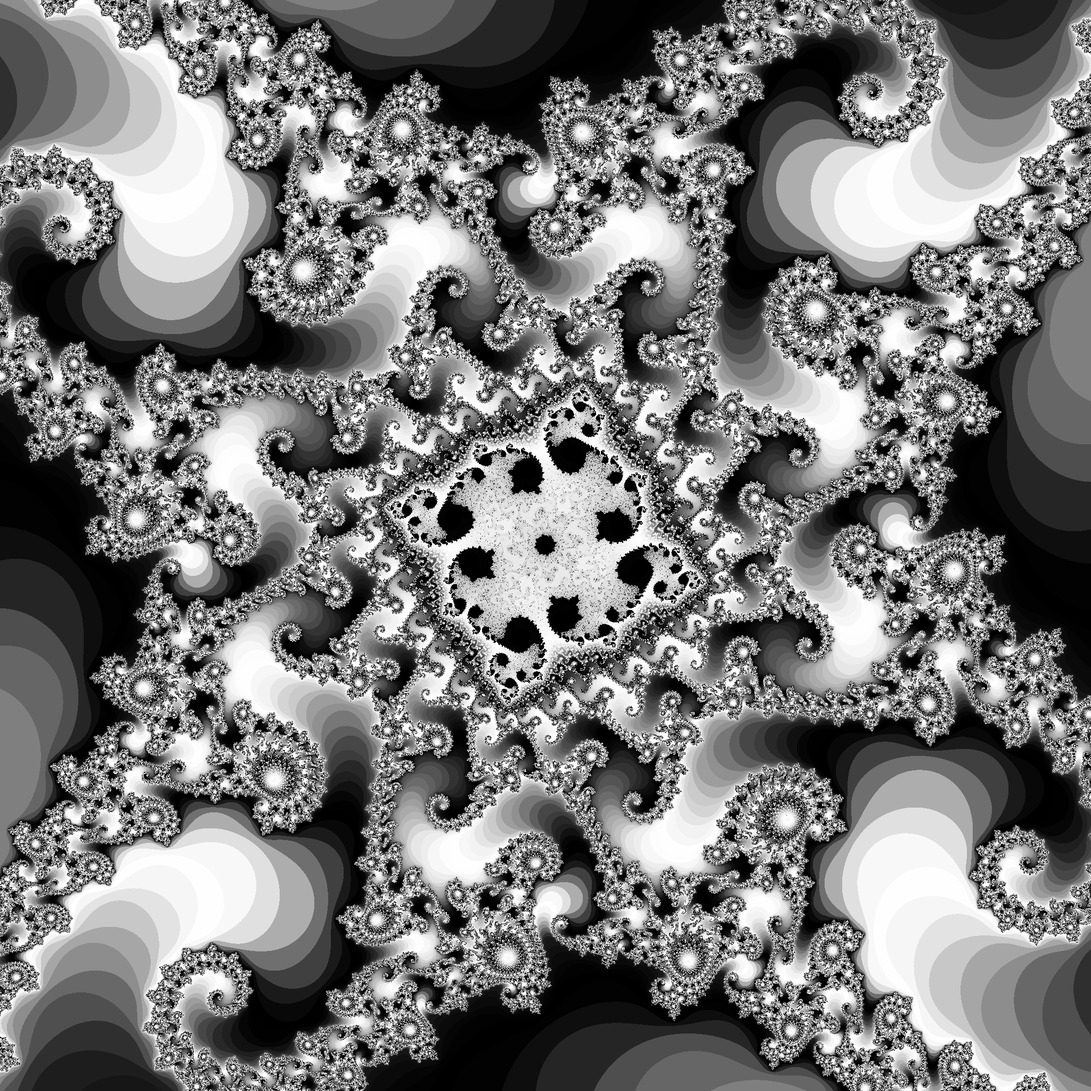
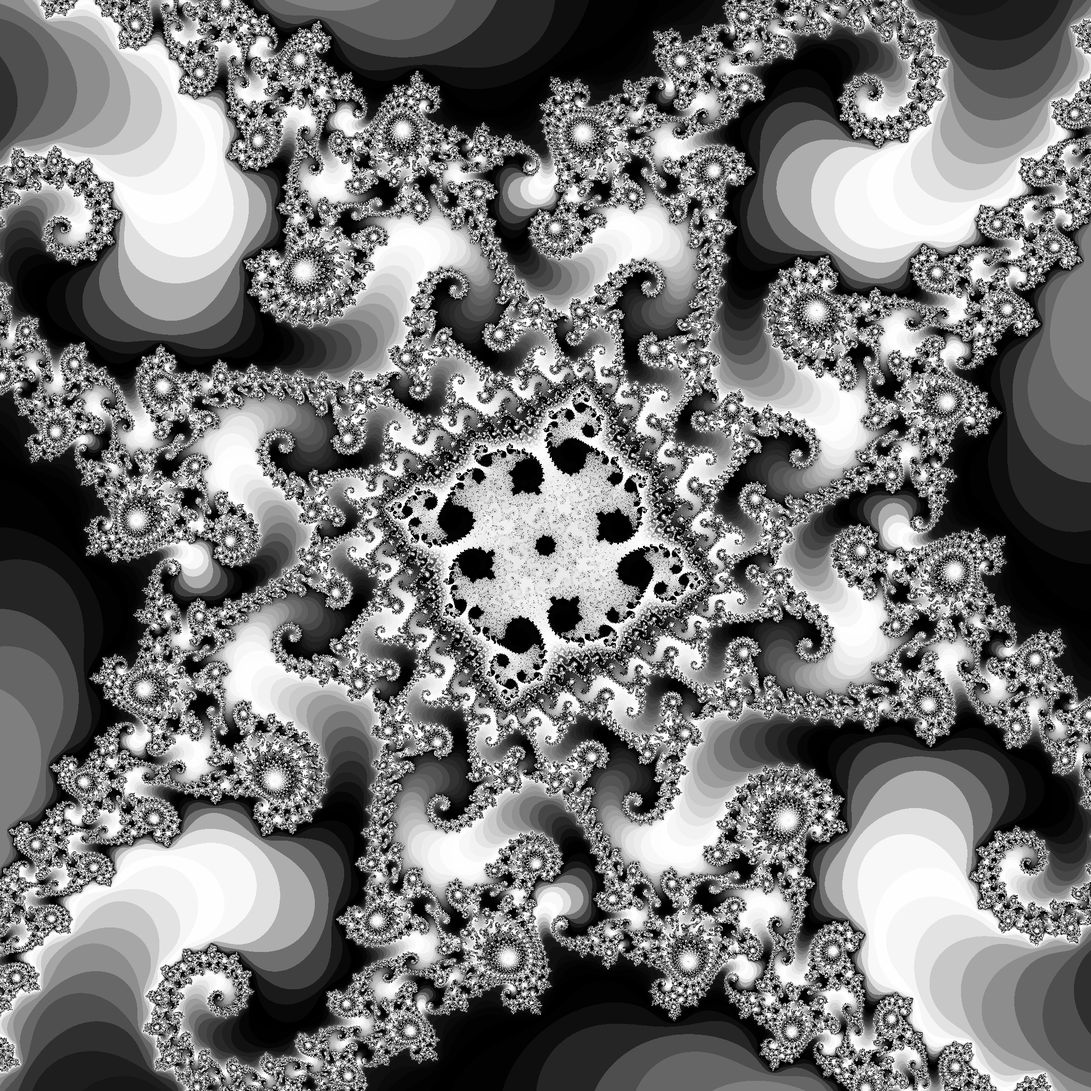
Another dive and practice graphic finding

Changed region(s): [[0.0, 0.0, 1.0, 1.0], [0.875, 0.75, 1.0, 0.875], [0.0, 0.125, 0.125, 0.25]]

diff --git a/mandelbrot/cfg/mandelbrot_cfg_MANDELBROT_45_SEAHORSE_OTHER_01.h b/mandelbrot/cfg/mandelbrot_cfg_MANDELBROT_45_SEAHORSE_OTHER_01.h
@@ -1,0 +1,24 @@
+///////////////////////////////////////////////////////////////////////////////
+//      Copyright Christopher Kormanyos 2024.
+// Distributed under the Boost Software License, Version 1.0.
+//    (See accompanying file LICENSE_1_0.txt or copy at
+//          http://www.boost.org/LICENSE_1_0.txt)
+//
+
+#ifndef MANDELBROT_CFG_MANDELBROT_45_SEAHORSE_OTHER_01_2024_04_01_H
+  #define MANDELBROT_CFG_MANDELBROT_45_SEAHORSE_OTHER_01_2024_04_01_H
+
+  constexpr char MANDELBROT_FILENAME_STRING[]       = "MANDELBROT_45_SEAHORSE_OTHER_01";
+
+  constexpr int  MANDELBROT_CALCULATION_DIGITS10    =     49;
+  constexpr int  MANDELBROT_CALCULATION_PIXELS_1D   =   2048;
+  constexpr int  MANDELBROT_CALCULATION_ITERATIONS  =  20000;
+
+  //constexpr char MANDELBROT_POINT_DX_HALF[]         = "1.0E-24";
+  constexpr char MANDELBROT_POINT_DX_HALF[]         = "1.0E-21";
+  constexpr char MANDELBROT_POINT_CENTER_X[]        = "-0.745605122368264995520769505";
+  constexpr char MANDELBROT_POINT_CENTER_Y[]        = "+0.112859495427252849953537530";
+
+  #include <mandelbrot/cfg/mandelbrot_cfg.h>
+
+#endif // MANDELBROT_CFG_MANDELBROT_45_SEAHORSE_OTHER_01_2024_04_01_H

diff --git a/mandelbrot/cfg/mandelbrot_cfg_MANDELBROT_40_SEAHORSE_DIVE_01.h b/mandelbrot/cfg/mandelbrot_cfg_MANDELBROT_40_SEAHORSE_DIVE_01.h
@@ -10,13 +10,13 @@
 
   constexpr char MANDELBROT_FILENAME_STRING[]       = "MANDELBROT_40_SEAHORSE_DIVE_01";
 
-  constexpr int  MANDELBROT_CALCULATION_DIGITS10    =     36;
+  constexpr int  MANDELBROT_CALCULATION_DIGITS10    =     34;
   constexpr int  MANDELBROT_CALCULATION_PIXELS_1D   =   2048;
   constexpr int  MANDELBROT_CALCULATION_ITERATIONS  =   4000;
 
   constexpr char MANDELBROT_POINT_DX_HALF[]         = "4.2E-13";
-  constexpr char MANDELBROT_POINT_CENTER_X[]        = "-0.7436438870371587044142456086065015856468026760433962992902199993741";
-  constexpr char MANDELBROT_POINT_CENTER_Y[]        = "+0.1318259042053119704953609838197448012366295216623952150895645304407";
+  constexpr char MANDELBROT_POINT_CENTER_X[]        = "-0.7436438870371589572";
+  constexpr char MANDELBROT_POINT_CENTER_Y[]        = "+0.1318259042053125126";
 
   #include <mandelbrot/cfg/mandelbrot_cfg.h>
 

diff --git a/test/test_mandelbrot.cpp b/test/test_mandelbrot.cpp
@@ -35,6 +35,7 @@
 //#include <mandelbrot/cfg/mandelbrot_cfg_MANDELBROT_31_ZOOM_ANOTHER_01.h>
 //#include <mandelbrot/cfg/mandelbrot_cfg_MANDELBROT_32_ZOOM_ANOTHER_02.h>
 //#include <mandelbrot/cfg/mandelbrot_cfg_MANDELBROT_40_SEAHORSE_DIVE_01.h>
+//#include <mandelbrot/cfg/mandelbrot_cfg_MANDELBROT_45_SEAHORSE_OTHER_01.h>
 
 // Provide instructions for simple build on WSL.
 // cd /mnt/c/Users/User/Documents/Ks/PC_Software/NumericalPrograms/mandelbrot/jpeg
